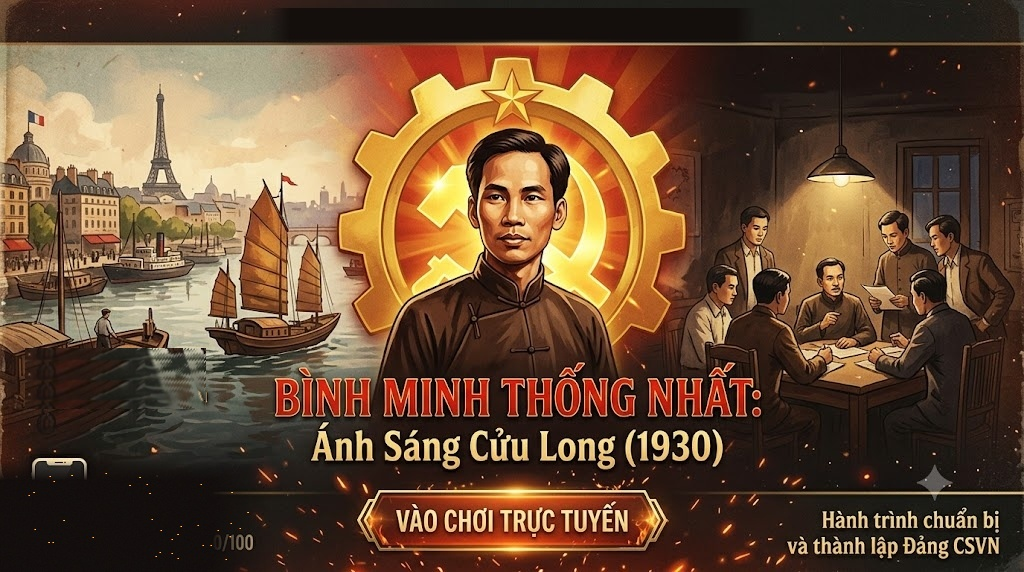
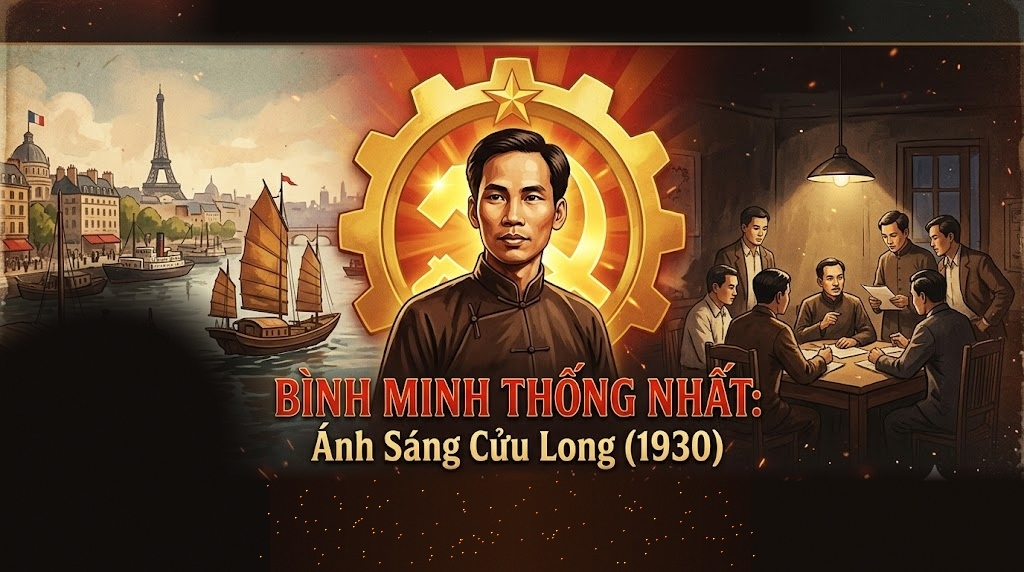
fix(ui): eliminate button overlapping, restore clear title, clean background artwork and polish responsive minigame layouts

diff --git a/style.css b/style.css
@@ -54,37 +54,12 @@ body {
   height: 108%;
   background-image: url('assets/concept_art_main.jpg');
   background-size: cover;
-  background-position: center center;
+  background-position: center 36%;
   transition: transform 0.15s cubic-bezier(0.2, 0.8, 0.2, 1);
   will-change: transform;
   filter: contrast(1.06) brightness(0.96) saturate(1.08);
 }
 
-/* Che sạch hoàn toàn góc dưới trái (icon điện thoại, QR và chữ Group Play) */
-.scene-layer-bg::after {
-  content: '';
-  position: absolute;
-  bottom: 0;
-  left: 0;
-  width: 28%;
-  height: 22%;
-  background: radial-gradient(ellipse at 15% 85%, #110d0c 58%, rgba(17, 13, 12, 0.95) 78%, transparent 100%);
-  pointer-events: none;
-  z-index: 2;
-}
-
-/* Che sạch dải chữ trên cùng */
-.scene-layer-bg::before {
-  content: '';
-  position: absolute;
-  top: 0;
-  left: 15%;
-  width: 70%;
-  height: 12%;
-  background: radial-gradient(ellipse at 50% 10%, #150f0e 55%, rgba(21, 15, 14, 0.9) 78%, transparent 100%);
-  pointer-events: none;
-  z-index: 2;
-}
 
 /* Canvas Particle Overlay */
 #fx-canvas {
@@ -443,10 +418,10 @@ body {
 
 /* Đã loại bỏ hoàn toàn Hotspot QR và Group Play */
 
-/* Nút VÀO CHƠI TRỰC TUYẾN khớp với vị trí trong tranh vẽ */
-.hotspot-main-cta {
+/* Bảng điều khiển trung tâm dưới chân trang Start Screen */
+.start-controls-panel {
   position: absolute;
-  bottom: 3.5%;
+  bottom: 12px;
   left: 50%;
   transform: translateX(-50%);
   display: flex;
@@ -455,32 +430,36 @@ body {
   gap: 8px;
   pointer-events: auto;
   z-index: 25;
+  width: 94%;
+  max-width: 640px;
 }
 
 .btn-art-play-trigger {
   position: relative;
-  width: 320px;
-  height: 60px;
-  background: rgba(183, 28, 28, 0.15);
-  border: 2px solid transparent;
-  border-radius: 30px;
+  width: 330px;
+  height: 46px;
+  background: linear-gradient(135deg, rgba(183, 28, 28, 0.45) 0%, rgba(30, 20, 18, 0.8) 100%);
+  border: 1px solid var(--gold-primary);
+  border-radius: 26px;
   cursor: pointer;
   display: flex;
   align-items: center;
   justify-content: center;
-  gap: 12px;
+  gap: 10px;
   transition: all 0.3s cubic-bezier(0.2, 0.8, 0.2, 1);
   outline: none;
+  box-shadow: 0 4px 20px rgba(0, 0, 0, 0.7), 0 0 15px rgba(255, 87, 34, 0.4);
 }
 
 .btn-trigger-text {
   font-family: var(--font-heading);
-  font-size: 1.18rem;
+  font-size: 1.05rem;
   font-weight: 800;
-  letter-spacing: 0.8px;
+  letter-spacing: 0.6px;
   color: #fff;
+  white-space: nowrap;
   text-shadow: 0 2px 4px rgba(0,0,0,0.95), 0 0 12px rgba(255, 215, 0, 0.8);
-  opacity: 0.95;
+  opacity: 0.98;
   transition: all 0.3s ease;
 }
 
@@ -490,19 +469,20 @@ body {
   left: 0;
   width: 100%;
   height: 100%;
-  border-radius: 30px;
-  border: 2px solid rgba(255, 215, 0, 0.5);
-  box-shadow: 0 0 20px rgba(255, 87, 34, 0.5), inset 0 0 15px rgba(255, 193, 7, 0.3);
+  border-radius: 26px;
+  border: 1.5px solid rgba(255, 215, 0, 0.5);
+  box-shadow: 0 0 18px rgba(255, 87, 34, 0.5), inset 0 0 12px rgba(255, 193, 7, 0.3);
   animation: pulseButtonGlow 2.5s infinite alternate ease-in-out;
+  pointer-events: none;
 }
 
 @keyframes pulseButtonGlow {
   0% {
-    box-shadow: 0 0 15px rgba(255, 87, 34, 0.4), inset 0 0 10px rgba(255, 193, 7, 0.2);
+    box-shadow: 0 0 12px rgba(255, 87, 34, 0.35), inset 0 0 8px rgba(255, 193, 7, 0.2);
     border-color: rgba(255, 215, 0, 0.4);
   }
   100% {
-    box-shadow: 0 0 35px rgba(255, 87, 34, 0.9), inset 0 0 22px rgba(255, 193, 7, 0.5);
+    box-shadow: 0 0 30px rgba(255, 87, 34, 0.85), inset 0 0 18px rgba(255, 193, 7, 0.5);
     border-color: rgba(255, 235, 150, 0.9);
   }
 }
@@ -514,8 +494,9 @@ body {
 }
 
 .btn-art-play-trigger:hover {
-  transform: scale(1.05);
-  background: rgba(220, 40, 20, 0.3);
+  transform: scale(1.04);
+  background: linear-gradient(135deg, rgba(215, 35, 35, 0.7) 0%, rgba(50, 30, 25, 0.9) 100%);
+  box-shadow: 0 6px 28px rgba(255, 87, 34, 0.8), 0 0 20px rgba(255, 215, 0, 0.6);
 }
 
 .btn-art-play-trigger:hover .btn-trigger-text {
@@ -527,24 +508,60 @@ body {
   transform: scale(0.97);
 }
 
-.btn-sub-campaign-tag {
-  background: rgba(24, 16, 14, 0.85);
-  border: 1px solid rgba(212, 175, 55, 0.45);
-  color: var(--gold-primary);
-  font-size: 0.82rem;
-  font-weight: 700;
-  padding: 4px 14px;
-  border-radius: 12px;
-  cursor: pointer;
-  backdrop-filter: blur(8px);
-  transition: all 0.2s ease;
+/* 2 Nút Chế độ phụ xếp ngang gọn gàng, thoáng đãng */
+.start-sub-modes-row {
+  display: flex;
+  gap: 12px;
+  justify-content: center;
+  width: 100%;
 }
 
-.btn-sub-campaign-tag:hover {
-  background: rgba(183, 28, 28, 0.7);
+.btn-sub-pill {
+  flex: 1;
+  max-width: 300px;
+  padding: 6px 16px;
+  border-radius: 18px;
+  font-family: var(--font-heading);
+  font-size: 0.8rem;
+  font-weight: 700;
+  white-space: nowrap;
+  cursor: pointer;
+  display: flex;
+  align-items: center;
+  justify-content: center;
+  gap: 6px;
+  transition: all 0.25s cubic-bezier(0.2, 0.8, 0.2, 1);
+  backdrop-filter: blur(8px);
+  outline: none;
+}
+
+.btn-pill-minigame {
+  background: linear-gradient(135deg, rgba(245, 158, 11, 0.22) 0%, rgba(180, 83, 9, 0.35) 100%);
+  border: 1px solid var(--gold-primary);
+  color: #fffae6;
+  box-shadow: 0 2px 10px rgba(0, 0, 0, 0.5), 0 0 12px rgba(245, 158, 11, 0.25);
+}
+
+.btn-pill-minigame:hover {
+  background: linear-gradient(135deg, rgba(245, 158, 11, 0.45) 0%, rgba(180, 83, 9, 0.6) 100%);
   color: #fff;
+  transform: translateY(-2px);
+  box-shadow: 0 4px 18px rgba(245, 158, 11, 0.5);
+}
+
+.btn-pill-quiz {
+  background: linear-gradient(135deg, rgba(30, 24, 22, 0.8) 0%, rgba(20, 15, 14, 0.9) 100%);
+  border: 1px solid rgba(212, 175, 55, 0.4);
+  color: var(--parchment);
+  box-shadow: 0 2px 10px rgba(0, 0, 0, 0.5);
+}
+
+.btn-pill-quiz:hover {
+  background: linear-gradient(135deg, rgba(45, 34, 30, 0.9) 0%, rgba(30, 20, 18, 0.95) 100%);
   border-color: var(--gold-glow);
-  box-shadow: 0 0 12px rgba(255, 193, 7, 0.4);
+  color: #fff;
+  transform: translateY(-2px);
+  box-shadow: 0 4px 18px rgba(255, 215, 0, 0.3);
 }
 
 .hotspot-info {
@@ -1744,12 +1761,81 @@ body {
   to { opacity: 1; transform: translateY(0); }
 }
 
+/* Custom Scrollbars */
+.minigame-container::-webkit-scrollbar,
+.timeline-track-wrapper::-webkit-scrollbar,
+.decoded-feed-list::-webkit-scrollbar {
+  width: 6px;
+  height: 6px;
+}
+
+.minigame-container::-webkit-scrollbar-track,
+.timeline-track-wrapper::-webkit-scrollbar-track,
+.decoded-feed-list::-webkit-scrollbar-track {
+  background: rgba(0, 0, 0, 0.35);
+  border-radius: 4px;
+}
+
+.minigame-container::-webkit-scrollbar-thumb,
+.timeline-track-wrapper::-webkit-scrollbar-thumb,
+.decoded-feed-list::-webkit-scrollbar-thumb {
+  background: rgba(212, 175, 55, 0.5);
+  border-radius: 4px;
+}
+
+.minigame-container::-webkit-scrollbar-thumb:hover,
+.timeline-track-wrapper::-webkit-scrollbar-thumb:hover,
+.decoded-feed-list::-webkit-scrollbar-thumb:hover {
+  background: var(--gold-glow);
+}
+
 @media (max-width: 900px) {
+  .minigame-container {
+    width: 96%;
+    max-height: 96vh;
+    margin: 2vh auto;
+    padding: 14px 16px;
+  }
+  .minigame-header-hud {
+    flex-direction: column;
+    align-items: flex-start;
+    gap: 10px;
+  }
+  .minigame-stats-row {
+    width: 100%;
+    justify-content: space-between;
+  }
   .cipher-columns-grid {
     grid-template-columns: 1fr;
+    gap: 12px;
   }
-  .minigame-container {
-    height: 95vh;
-    padding: 14px;
+  .start-controls-panel {
+    bottom: 16px;
+    width: 95%;
+  }
+  .btn-art-play-trigger {
+    width: 100%;
+    max-width: 320px;
+    height: 48px;
+  }
+  .start-sub-modes-row {
+    flex-direction: column;
+    width: 100%;
+    align-items: center;
+    gap: 8px;
+  }
+  .btn-sub-pill {
+    max-width: 320px;
+    width: 100%;
+    font-size: 0.8rem;
+    padding: 7px 14px;
+  }
+  .lobby-footer {
+    flex-direction: column;
+    width: 100%;
+    gap: 10px;
+  }
+  .lobby-footer button {
+    width: 100%;
   }
 }

diff --git a/index.html b/index.html
@@ -72,24 +72,24 @@
     <!-- ================= 1. MÀN HÌNH KHỞI ĐỘNG (START SCREEN) ================= -->
     <main id="start-screen" class="screen active">
       <div class="start-screen-overlay-zone">
-        <!-- Vùng tương tác trung tâm dưới: Nút VÀO CHƠI TRỰC TUYẾN -->
-        <div class="hotspot-main-cta">
+        <!-- Khung điều khiển trung tâm dưới chân trang -->
+        <div class="start-controls-panel">
           <button class="btn-art-play-trigger" id="btn-main-play" title="Nhấn để Vào chơi trực tuyến">
             <div class="btn-fire-glow-border"></div>
             <span class="btn-spark-particle spark-1">✦</span>
-            <span class="btn-trigger-text">VÀO CHƠI TRỰC TUYẾN</span>
+            <span class="btn-trigger-text">⚡ VÀO CHƠI TRỰC TUYẾN</span>
             <span class="btn-spark-particle spark-2">✦</span>
           </button>
 
-          <!-- Chế độ Chơi Mini-Game Mật Thư & Trục Thời Gian -->
-          <button class="btn-sub-campaign-tag btn-minigame-tag" id="btn-mode-minigame">
-            🧩 Mini-Game: Mật Thư & Trục Thời Gian
-          </button>
-
-          <!-- Chế độ Chơi Trắc Nghiệm 100 Câu -->
-          <button class="btn-sub-campaign-tag" id="btn-mode-campaign">
-            📖 Trắc Nghiệm 100 Câu Lịch Sử Đảng
-          </button>
+          <!-- 2 Nút Chế độ phụ bố trí ngang gọn gàng, thoáng đãng -->
+          <div class="start-sub-modes-row">
+            <button class="btn-sub-pill btn-pill-minigame" id="btn-mode-minigame" title="Chơi Mini-game Mật Thư & Dòng Thời Gian">
+              🧩 Mini-Game: Mật Thư & Dòng Thời Gian
+            </button>
+            <button class="btn-sub-pill btn-pill-quiz" id="btn-mode-campaign" title="Làm bài Trắc nghiệm 100 Câu">
+              📖 Đấu Trắc Nghiệm 100 Câu
+            </button>
+          </div>
         </div>
       </div>
     </main>

diff --git a/app.js b/app.js
@@ -162,6 +162,12 @@ class HistoricalQuizApp {
       target.classList.add('active');
       this.currentScreen = screenId;
     }
+
+    // Nút Xem Intro chỉ hiển thị khi ở Start Screen
+    const playIntroBtn = document.getElementById('btn-play-intro');
+    if (playIntroBtn) {
+      playIntroBtn.style.display = (screenId === 'start-screen') ? 'flex' : 'none';
+    }
   }
 
   bindEvents() {
